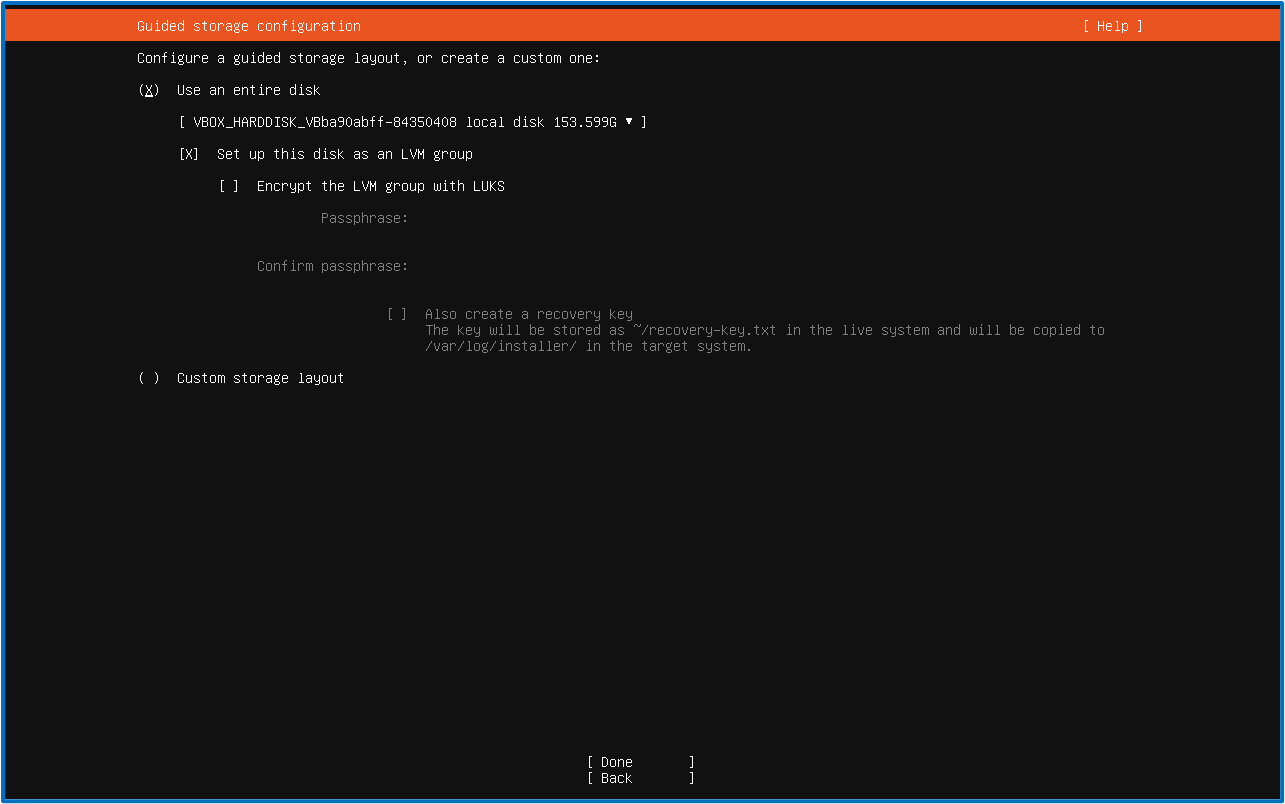
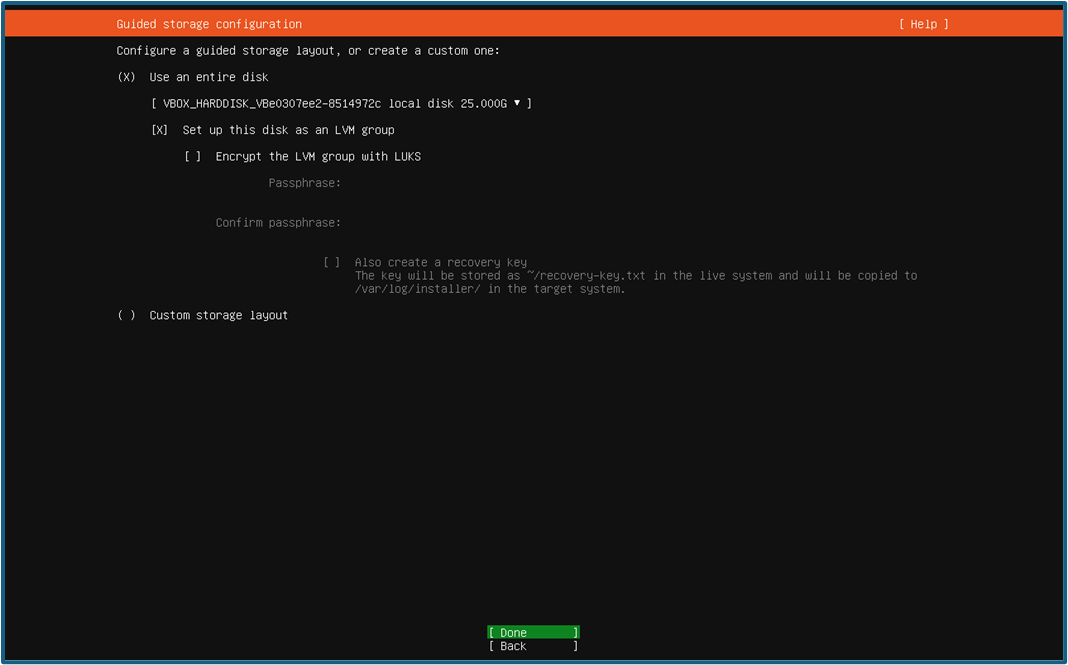
16th of July 2025

diff --git a/advanced/networkcontrollerssetup/SettingUpServer.md b/advanced/networkcontrollerssetup/SettingUpServer.md
@@ -1,9 +1,16 @@
-# ![](../../images/menu/menu_networkcontrollers.png ':size=25') Installation of the Network Controller
+# ![](../../images/menu/menu_networkcontrollers.png ':size=25') Installation of a Network Controller
 
 > [!Note]
 > If you intend to install this server virtually, please consider the necessary [BIOS settings](/./advanced/hypervisorinstallation/hypervisorinstallation.md) 
 
-<!-- listed at the bottom of this page. -->
+> [!Note]
+> The minimum specifications for on-prem Network Controller are:
+> 
+> **General**:
+> - 25GB hard disk
+> **For every 50 users:**
+> - 2 CPU
+> - 4GB RAM
 
 
 Download the latest version for the 'Network Controller' from https://signal.jimber.io/downloads (no need to log in).
@@ -16,21 +23,21 @@ Press Enter.
 
 ![installation_server_nc_3.png](./screenshots/installation_server_nc_3.png ':size=600')
 
-In the window "Guided storage configuration", you can hit 'Done'. You will get an overview of the storage configuration. Here and in the next window, you can also hit 'Done'. 
+In the window "Guided storage configuration", you can hit **Done**. You will get an overview of the storage configuration. Here and in the next window, you can also hit **Done**. 
 
 ![installation_server_nc_4.png](./screenshots/installation_server_nc_4.png ':size=600')
 
+<!-- In the window "Network configuration", you can hit **Done**. -->
 
-
-![networkconnections.png](./screenshots/networkconnections.png ':size=600')
+![network_config.png](./screenshots/network_config.png ':size=600')
 
 
 
 <!-- Then you will see a window with the message “Confirm destructive action”. This is a warning that all data on the used disks will be lost. Only in case of starting this process by mistake, you can choose here for “Continue”. -->
 
-In the next window you will be informed that all data on the used disks may be lost. Choose to “Continue”. 
+In the next window you will be informed that all data on the used disks may be lost. Choose to **Continue**. 
 
-![installation_server_nc.png](./screenshots/installation_server_nc.png ':size=600')
+![install_system.png](./screenshots/install_system.png ':size=600')
 
 The installation process will then begin, which can take several minutes.
 
@@ -59,7 +66,7 @@ You need this data to proceed (hit "Enter" if necessary):
 
 ![installation_server_nc_5.png](./screenshots/installation_server_nc_5.png ':size=600')
 
-On the next screen select option 3 to show the IP configuration of the Network Controller.
+On the next screen select option **3** to show the IP configuration of the Network Controller.
 
 ![menu.png](./screenshots/menu.png)
 
@@ -112,7 +119,7 @@ Confirm that your Network Controller is now online on the `Jimber SASE Platform`
 
 ### Hypervisor installation
 
-Hypervisor installation is widely used as iy's a very convenient way of working. The major advantage is that the Network Controller Server can be installed on existing hardware. Therefore, there's no need for a physical device. 
+Hypervisor installation is widely used as a very convenient way of working. The major advantage is that the Network Controller Server can be installed on existing hardware. Therefore, there's no need for a physical device. 
 
 > [!INFO]
-> Detailed instructions are available in the Advanced section [here](/./advanced/hypervisorinstallation/hypervisorinstallation.md).
+> Detailed instructions are available [here](/./advanced/hypervisorinstallation/hypervisorinstallation.md).

diff --git a/devices/networkcontrollerssetup/SettingUpServer.md b/devices/networkcontrollerssetup/SettingUpServer.md
@@ -14,21 +14,20 @@ Use the downloaded file to install the Network Controller.
 
 Press Enter.
 
-![installation_server_nc_3.png](./screenshots/installation_server_nc_3.png ':size=600')
+<!-- ![installation_server_nc_3.png](./screenshots/installation_server_nc_3.png ':size=600')
 
-In the window "Guided storage configuration", you can hit 'Done'. You will get an overview of the storage configuration. Here and in the next window, you can also hit 'Done'. 
+In the window "Guided storage configuration", you can hit 'Done'. You will get an overview of the storage configuration. Here and in the next window, you can also hit **Done**. 
 
-![installation_server_nc_4.png](./screenshots/installation_server_nc_4.png ':size=600')
-
-
-
-![networkconnections.png](./screenshots/networkconnections.png ':size=600')
+![installation_server_nc_4.png](./screenshots/installation_server_nc_4.png ':size=600') -->
 
 
 
-<!-- Then you will see a window with the message “Confirm destructive action”. This is a warning that all data on the used disks will be lost. Only in case of starting this process by mistake, you can choose here for “Continue”. -->
+![network_config.png](./screenshots/network_config_.png ':size=600')
 
-In the next window you will be informed that all data on the used disks may be lost. Choose to “Continue”. 
+
+
+
+In the next window you will be informed that all data on the used disks may be lost. Choose to **Continue**. 
 
 ![installation_server_nc.png](./screenshots/installation_server_nc.png ':size=600')
 

diff --git a/advanced/logging/logging.md b/advanced/logging/logging.md
@@ -11,7 +11,7 @@ This section provides an overview of where you can find Jimber SASE log files on
 - **Debug Logs:** Special empty files that enable enhanced logging in the other log files when present.
 
 > [!WARNING]
-> The `debug.log` file itself does **not** contain logs. Instead, its presence triggers verbose logging across the client, server, and service logs to aid in troubleshooting.
+> The `debug.log` file itself does **not** contain logs. Instead, when present, it enables verbose logging across the client, server, and service layers to assist in diagnosing issues
 
 ---
 
@@ -36,7 +36,7 @@ Once created, the system will produce more detailed logs that can help identify 
 - Launcher log: `%PROGRAMFILES%\Jimber\launcher.log`
 - Debug trigger file: `%PROGRAMFILES%\Jimber\debug.log`
 
-#### Server
+##### Server
 - Server log: `%PROGRAMFILES%\Jimber\server.log`
 - Launcher log: `%PROGRAMFILES%\Jimber\launcher.log`
 - Debug trigger file: `%PROGRAMFILES%\Jimber\debug.log`

diff --git a/company/users/users.md b/company/users/users.md
@@ -1,6 +1,7 @@
 # ![](../../images/menu/menu_users.png ':size=25') Users
 
 A user refers to an individual account within the platform. Users can have roles and be linked to properties of different products.
+testetst
 
 > [!INFO]
 > Managing users efficiently is crucial for maintaining the security and integrity of your platform. 
@@ -17,8 +18,8 @@ To create a new User into the platform, click on the `+ Create new` button locat
 ![create_user.png](./screenshots/create_user.png ':size=500x300 :border-radius=10px')
 
 
-> [!WARNING]
->  Be aware that the username cannot be changed after creating a user.
+<!-- > [!WARNING]
+>  Be aware that the username cannot be changed after creating a user. -->
 
 #### User Roles and their permissions
 

diff --git a/_sidebar.md b/_sidebar.md
@@ -40,5 +40,6 @@
   * [Logging](./advanced/logging/logging.md)
   * [Personal Access Tokens](./advanced/personalaccesstokens/personalaccesstokens.md)
   * [Unified Environment](./advanced/unified_environment/unified_environment.md)
+  
 
 * [**CONTACT**](./contact/index)

diff --git a/advanced/synology/synology.md b/advanced/synology/synology.md
@@ -1,4 +1,4 @@
-# Synology
+# Synology  
 
 >[!INFO]
 > Support is currently provided for Synology NAS running **DMS 7+**. If you're using an earlier version, please update or contact our support team for guidance.
